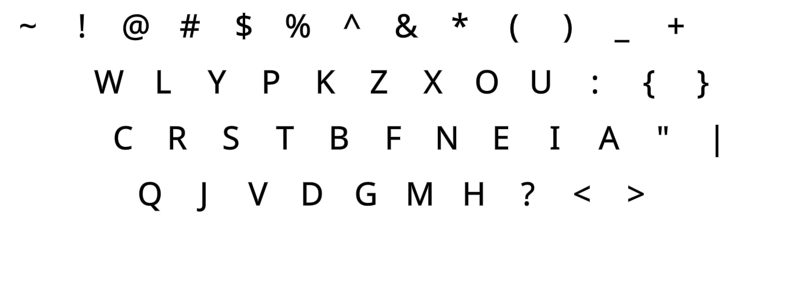
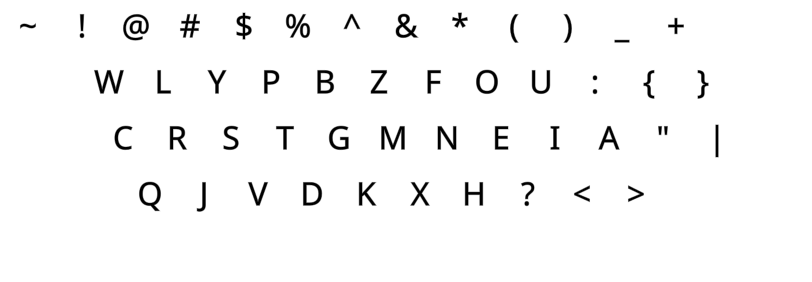
Canary-Ortho update
* Updated Canary Ortho to the proper variant w/ cycles

diff --git a/Layouts/Canary/README.md b/Layouts/Canary/README.md
@@ -13,7 +13,8 @@ The Canary layout
 - This layout was made by layout creators at the AltKeyboardLayout Discord, including Apsu and Semilin.
 - Its design is based on novel analysis and joint experience.
 - It contains its own Curl(DH) mod, and is strongly recommended to Angle mod on row-staggered boards.
-- For more info, see [the Canary layout repo on GitHub][CanGit]
+- On ortho boards, use `G > B > K` and `F > X > M` remaps [as explained in the Canary readme][CanOrt].
+- For more info, see [the Canary layout repo on GitHub][CanGit].
 <br>
 
 #### The Canary layout on an ANSI board:
@@ -25,12 +26,12 @@ The Canary layout
 +-----------------------------+
 ```
 
-#### The Canary layout on a matrix board:
+#### The Canary layout on a ortho/matrix board:
 ```
 +----------------------------+
-| w l y p k   z x o u ;  [ ] |
-| c r s t b   f n e i a  ' \ |
-| q j v d g   m h / , .      |
+| w l y p b   z f o u ;  [ ] |
+| c r s t g   m n e i a  ' \ |
+| q j v d k   x h / , .      |
 +----------------------------+
 ```
 
@@ -48,3 +49,4 @@ The Canary layout
 
 
 [CanGit]: https://github.com/Apsu/Canary (The Canary layout on GitHub)
+[CanOrt]: https://github.com/Apsu/Canary#ortho (Canary layout Readme, Ortho section)
